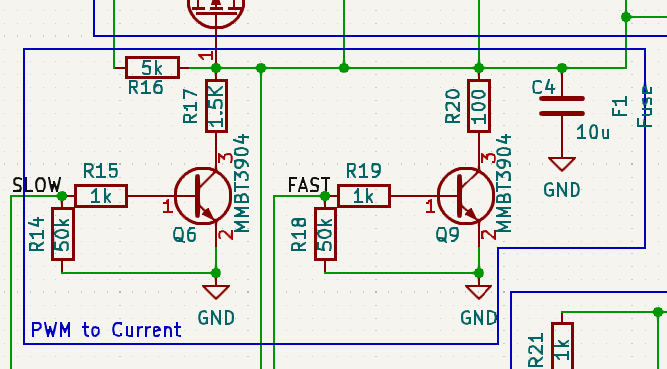
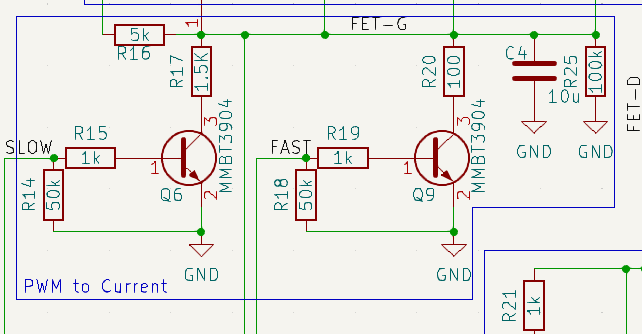
Big README update to cover design changes

diff --git a/README.md b/README.md
@@ -26,6 +26,8 @@ There is much going on here.  The sections below break down and explain one subc
 
 ### Power Dissipation
 
+[falstad model](https://tinyurl.com/28p9fv3n)
+
 This is a set of 4 P-Channel MOSFETs connected in parallel:
 
 ![power fets](images/power_fets.png)
@@ -42,6 +44,8 @@ datasheet graph below:
 > Note: The schematic has been updated to use an alternate PFET due to the FQP27P06 no longer being produced.
 
 ### Vgs Control
+
+[falstad model](https://tinyurl.com/2cw9exa5)
 
 To achieve the target Vgs for the MOSFETs, we use a capacitor as detailed
 below:
@@ -60,7 +64,15 @@ much charge they pull from the capacitor thus determining the Vgs value.
 In the power-on state, we can assume that SLOW and FAST are not driven at all (high Z).  In this state the two 50k pulldowns (R14, R18) turn off Q6 and Q9
 allowing the capacitor to fill up and turn off all MOSFETs.
 
+The 100K pull down resistor slowly drains the capacitor so that it is in a known
+state (0V) when the unit is unplugged and idle.  Omitting can create a situation
+where Vgs is temporarily higher than the plugged in battery, which could lead to
+some side effects such as temporary Vgs oscillation as the firmware searches for
+the correct duty cycles for SLOW and FAST.
+
 ## Inrush protection
+
+[falstad model](https://tinyurl.com/2y8c54c8)
 
 There is inrush current potential on initial plugin as the 100ms or so it takes
 the capacitor (C4) to charge via R16 could allow a high current to pass through
@@ -70,11 +82,11 @@ protection circuitry:
 ![inrush](images/inrush.png)
 
 Fully understanding this block will require studying the full schematic.  A
-partial understand can be gained from the image above.  We basically have
-another way to fill the capacitor C4 which is "enabled" when the battery is
-plugged in but the user has not pressed the power button yet.  The way this
-works is that the source of the MOSFET (2) is connected to the battery and the
-small 10 ohm R13 allows for a rapid fill.  R8 is connected to the
+partial understand can be gained from the image above and the falstad model.  We
+basically have another way to fill the capacitor C4 which is "enabled" when the
+battery is plugged in but the user has not pressed the power button yet.  The
+way this works is that the source of the MOSFET (2) is connected to the battery
+and the small 10 ohm R13 allows for a rapid fill.  R8 is connected to the
 microcontroller power and is thus grounded on initial power on, turning "on" the
 FET.
 
@@ -83,13 +95,15 @@ voltage near-battery going to R8 which turns off the FET and disables the inrush
 
 ### Current Sense 
 
+[falstad model](https://tinyurl.com/253e6aln)
+
 ![i sense](images/i_sense.png)
 
-One of the three ways the microcontroller decides where to set Vgs is by
-monitoring the current flowing through the FETs  (the other two are voltage and
-power).  This is done with a low-side sense circuit which is a resistor that
-indicates the current via a voltage drop.  This voltage drop is measured with an
-ADC on the micorcontroller.  
+One of the four ways the microcontroller decides where to set Vgs is by
+monitoring the current flowing through the FETs  (the other three are voltage,
+power, and temperature).  This is done with a low-side sense circuit which is a
+resistor that indicates the current via a voltage drop.  This voltage drop is
+measured with an ADC on the micorcontroller.  
 
 In many cases, minimizing the power loss through this sense resistor is
 desirable so a small resistance will be chosen and the corresponding low voltage
@@ -104,9 +118,14 @@ exactly that.  In normal use, this case should not occur.
 
 ### Protection Fuse
 
-We also have a protection fuse to help protect against software faults or other unexpected problems.  More protection would be offered if the fuse were right at the battery input but this would introduce a further temperature-dependent voltage drop that would throw off the voltage measurement.  The actual fuse location was moved from the image in this document however so please refer to the source kicad schematic.  For the fuse type, we choose a 40A polyfuse which is self-resetting.
+![fuse](images/fuse.png)
+
+We also have a protection fuse to help protect against software faults or other unexpected problems.  More protection would be offered if the fuse were right at the battery input but this would introduce a further temperature-dependent voltage drop that would throw off the voltage measurement.  The "unprotected" components
+are the digital logic which should be low current draw barring a physical issue with the board (< 100 mA)
 
 ### Voltage Sense
+
+[falstad model](https://tinyurl.com/2aavu5hb)
 
 ![v sense](images/v_sense.png)
 
@@ -119,13 +138,25 @@ used a reference value to determine the sag.
 
 The voltags at R9 is not exactly the battery voltage as it has to pass through a a diode and FET.  The micorcontroller calculations will attempt to compensate for the drop.
 
+### Temperature Sense
+
+![temperature](images/temperature.png)
+
+A temperature sensor will be placed against the heatsink to get an idea of of
+overall temperature of the FETs and power resistors.  This feedback can be used
+to control a cooling fan (described below) and, if this is inadequate, reduce
+the power dissipation via FAST and SLOW PWM signals (as described earlier).
+
 ### Power cutoff
+
+[falstad model](https://tinyurl.com/22wuu5mp)
 
 The LIPO drainer is designed to draw nearly zero power (outside of parasitic losses) when it is off, including after the discharging has completed.  Thus the user can leave the unit unattended (assuming the needed precautions have been taken) without concern of overdraining.
 
 This is implemented with the following circuit:
 
 ![power cutoff](images/power_cutoff.png)
+
 
 The Q2 FET is key.  It determines if the microcontroller gets any power.  If the microcontroller has no power, then the power FETs described earlier naturally enter an "off" state.
 
@@ -151,6 +182,8 @@ The design breaks out an I2C connection that is typical for an I2C OLED.  A 128x
 
 ### Fan connection
 
+[falstad model](https://tinyurl.com/256h26ew)
+
 The LIPO generator effectively converts battery energy to heat, thus you'll need
 a cooling strategy to avoid overheating and damaging the discharge circuit.
 Like cooling other devices such as CPUs and GPUs, a passive solution is
@@ -164,9 +197,17 @@ This controller feeds the full battery voltage into the fan as PWM pulses.  Thes
 
 There are many motor controllers ICs available on the market.  The reason they were not chosen here is because the maximum battery input voltage (30V) exceeds the specifications of most of these controllers.  Also many of these controllers provide an H-bridge solution, which is overkill here (we don't need to run the fan in reverse).
 
-### Optional Buttons
+### Control Buttons
 
-We have a bank of optional buttons that may be used for various things.  This will be decided by the firmware.
+Besides the ON and "reset" buttons, we have an OFF, Next and OK button.
+
+OFF is directly connected to the poweron circuit, described above.  It
+cuts power to the microcontroller without any negotiation.
+
+NEXT and OK are used by the microcontroller to implement a simple UI.
+More complex UI functions (mostly setup, calibration, and preferences) can
+be configured using the USB interface of the Pico with associated firmware
+support.
 
 ![buttons](images/buttons.png)
 
